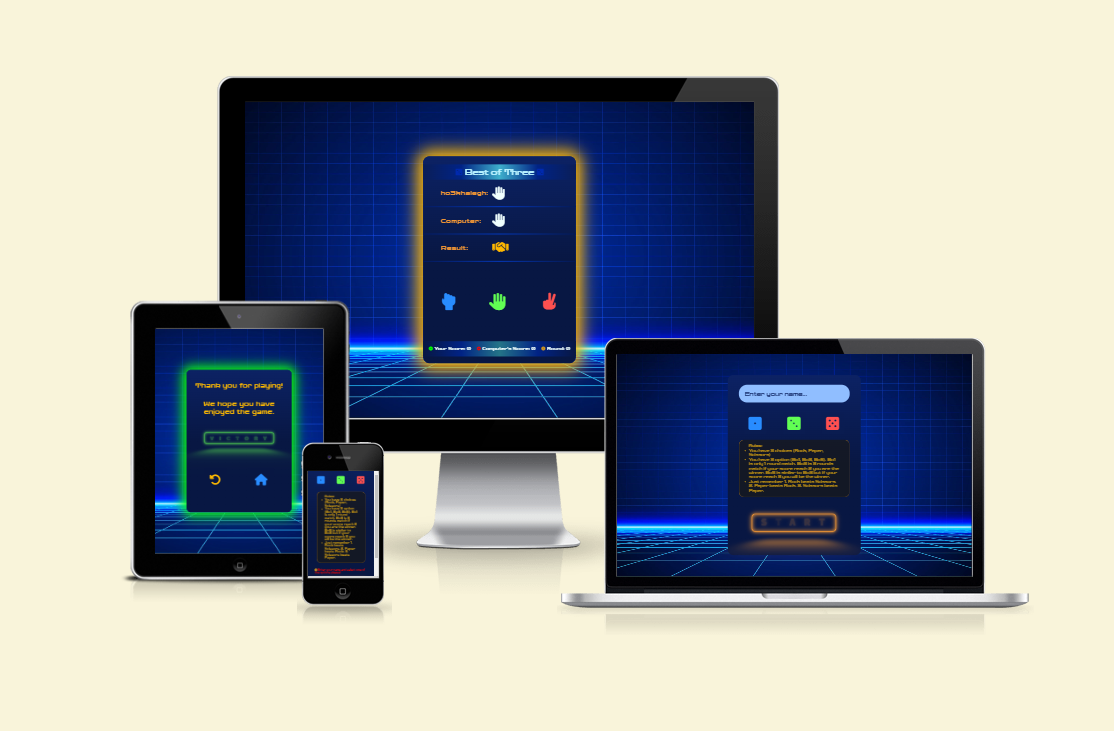
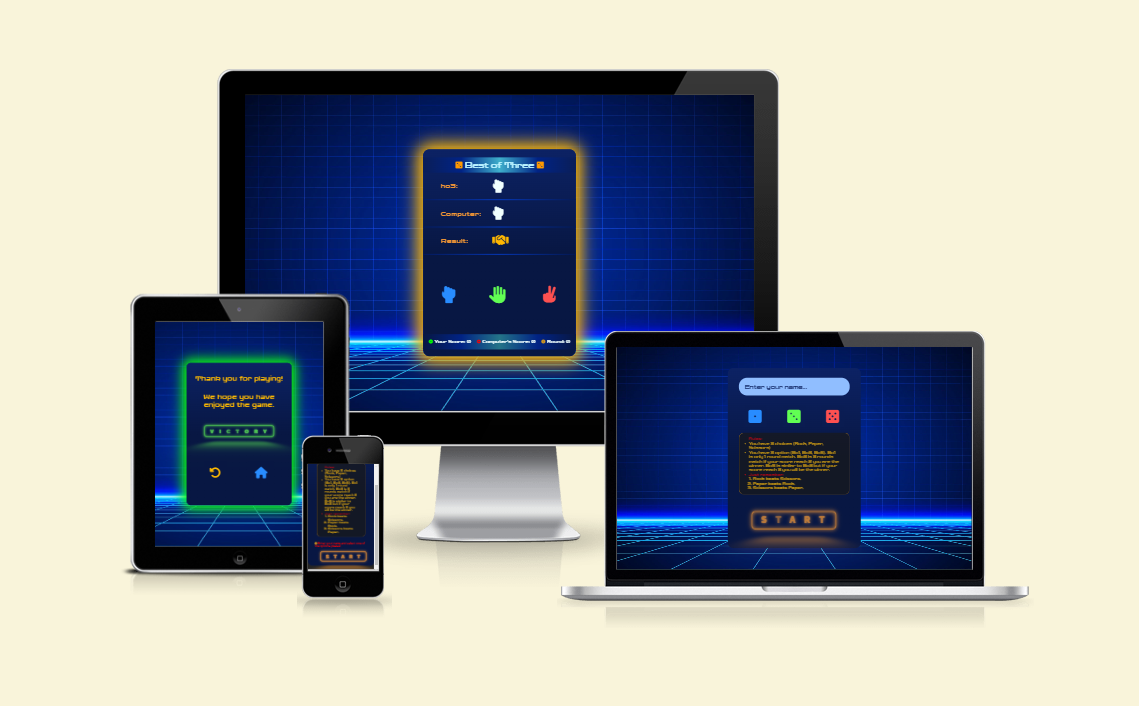
Added the details into the README and renew the mockup image

Changed region(s): [[0.0916, 0.0935, 0.9461, 0.8725]]

diff --git a/README.md b/README.md
@@ -70,7 +70,7 @@ Ending view, announces that you have won or lost the game and gives you two opti
 
 ## Testing
 
-
+  - The project is completely responsive to all devices. In testing there were some errors (rotation screen in mobile size, the height of the container in the mobile screen) but with some searching in [Stackoverflow](https://stackoverflow.com/) fixed all of the errors.
 
 ### Validator Testing
 
@@ -89,17 +89,31 @@ Ending view, announces that you have won or lost the game and gives you two opti
 
 ### Unfixed Bugs
 
-
+  - Happily there are no bugs or errors in the project.
 
 ## Deployment
 
+  - The site was deployed to GitHub pages. The steps to deploy are as follows: 
+    - In the GitHub repository, navigate to the Settings tab 
+    - From the source section drop-down menu, select the Master Branch
+    - Once the master branch has been selected, the page will be automatically refreshed with a detailed ribbon display to indicate the successful deployment.
+
+The live link can be found here - https://ho3khaleghi.github.io/rock-paper-scissors/
 
 ## Credits
 
+  - The codes for the match option buttons and choice buttons are from https://codepen.io/HighFlyer/pen/WNXRZBv with some customization respective to the need of the project.
 
+  - The codes for the Start button and the result announcer in the ending view  are also from https://codepen.io/Ks145/pen/MWGxbYr with some customization respective to the need of the project.
 
-### Content
-
-
+  - The next round announcer with is a slide in text is from https://codepen.io/yochans/pen/wvJXvOg with some changes respective to the need of the project.
 
 ### Media
+
+  - The favicon is form flaticon. https://www.flaticon.com/free-icon/rock-paper-scissors_6729598?k=1697965150472&log-in=google
+
+  - With Pixelied I converted the png file to webp. https://pixelied.com/convert/png-converter/png-to-webp
+
+  - The background image is from Vecteezy. https://www.vecteezy.com/vector-art/7207818-futuristic-technological-grid-background-digital-futurist-cyber-space-design-cyberpunk-technology-virtual-reality-science-fiction-matrix-science-light-perspective-wallpaper-vector-illustration
+
+  - The dice icons and the choice buttons icons are from https://fontawesome.com/
